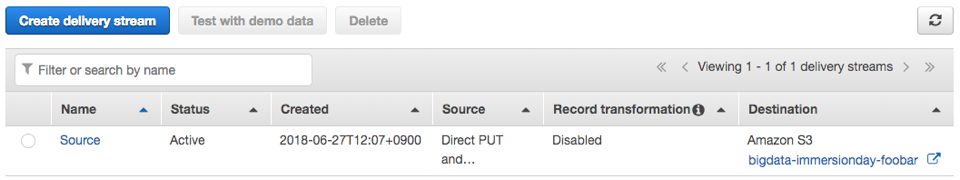
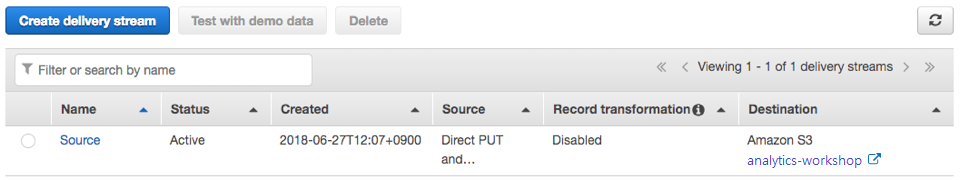
Rename bigdata immersionday to analytics workshop
Rename bigdata immersionday to analytics workshop

Changed region(s): [[0.7812, 0.8333, 1.0, 0.9444]]

diff --git a/content/lab1/_index.ko.md b/content/lab1/_index.ko.md
@@ -13,7 +13,7 @@ pre: "<b>3. </b>"
 #### Kinesis Firehose 생성 (원본 데이터)
 Kinesis Firehose를 통해 앞서 생성한 EC2가 발생시키는 실시간 데이터를 S3, Redshift, ElasticSearch 등의 목적지에 수집할 수 있습니다.<br/>
 
-1. AWS Management Console에서 **Kinesis** 서비스를 선택합니다. (Region : Seoul)
+1. AWS Management Console에서 **Kinesis** 서비스를 선택합니다. (Region : Oregon)
 2. **Get Started** 버튼을 클릭합니다.
 3. **Deliver streaming data with Kinesis Firehose delivery streams** 메뉴의 **Create delivery stream** 을 클릭하여 새로운 Firehose 전송 스트림 생성을 시작합니다.
 ![image02](images/02.png)
@@ -38,10 +38,11 @@ Kinesis Firehose를 통해 앞서 생성한 EC2가 발생시키는 실시간 데
 생성한 Firehose가 정상적으로 데이터를 수집하는지 확인해봅니다.<br/>
 
 1. 앞서 생성한 EC2 인스턴스에 system manager - session manager로 접속을 합니다.
-2. firehose.py 를 실행합니다.
+2. 홈 디렉토리로 이동 후, firehose.py 를 실행합니다.
 
 ``` markup
-python /home/ssm-user/firehose.py
+cd ~
+python firehose.py
 ```
 
 3. 매 초 데이터가 발생하는 것을 확인합니다. 충분한 데이터 수집을 위해 실행 중인 상태로 다음 단계를 진행합니다.
@@ -122,7 +123,7 @@ CREATE OR REPLACE PUMP "STREAM_PUMP_1" AS
     * In-application stream name : DESTINATION_SQL_BASIC_STREAM,
     * Output format : JSON
     * Access to chosen resources : Create
-    * update IAM role kinesis-analytics-StreamApplication-us-east-1 
+    * update IAM role kinesis-analytics-StreamApplication-us-west-2 
 을 지정한 후 Save and Continue 버튼을 클릭합니다.
 ![image27](images/27.png)
 3. **Destination**이 설정 되었습니다. **Exit to Kinesis Analytics applications** 을 클릭합니다.

diff --git a/content/lab0/_index.ko.md b/content/lab0/_index.ko.md
@@ -41,7 +41,7 @@ Lab 전체에서 사용할 IAM User를 생성합니다.<br/>
 Lab에서 데이터를 실시간으로 발생시킬 EC2 인스턴스를 생성합니다.<br/>
 
 1. AWS Management Console에서 **EC2** 서비스에 접속합니다.
-2. 우측 상단에서 Region은 **US East (N. Virginia)**를 선택합니다.
+2. 우측 상단에서 Region은 **US West (Oregon)**를 선택합니다.
 3. **Launch Instance**를 선택하여 새로운 인스턴스 생성을 시작합니다.
 ![image07](images/07.png)
 4. **Step 1: Choose an Amazon Machine Image (AMI)** 화면에서 **Amazon Linux AMI 2018.03.0 (HVM), SSD Volume Type - ami-14c5486b** 를 선택합니다.
@@ -136,7 +136,7 @@ aws configure list
 
 | &nbsp; | &nbsp; |
 | ------ | ------ |
-| Bucket name | analytics-immersionday-**[개인식별자]** <br/> (예 : analytics-immersionday-**foobar**) |
+| Bucket name | analytics-workshop-**[개인식별자]** <br/> (예 : analytics-workshop-**foobar**) |
 | Region | 미국 서부 (오레곤) |
 | 그 외 | default |
 
